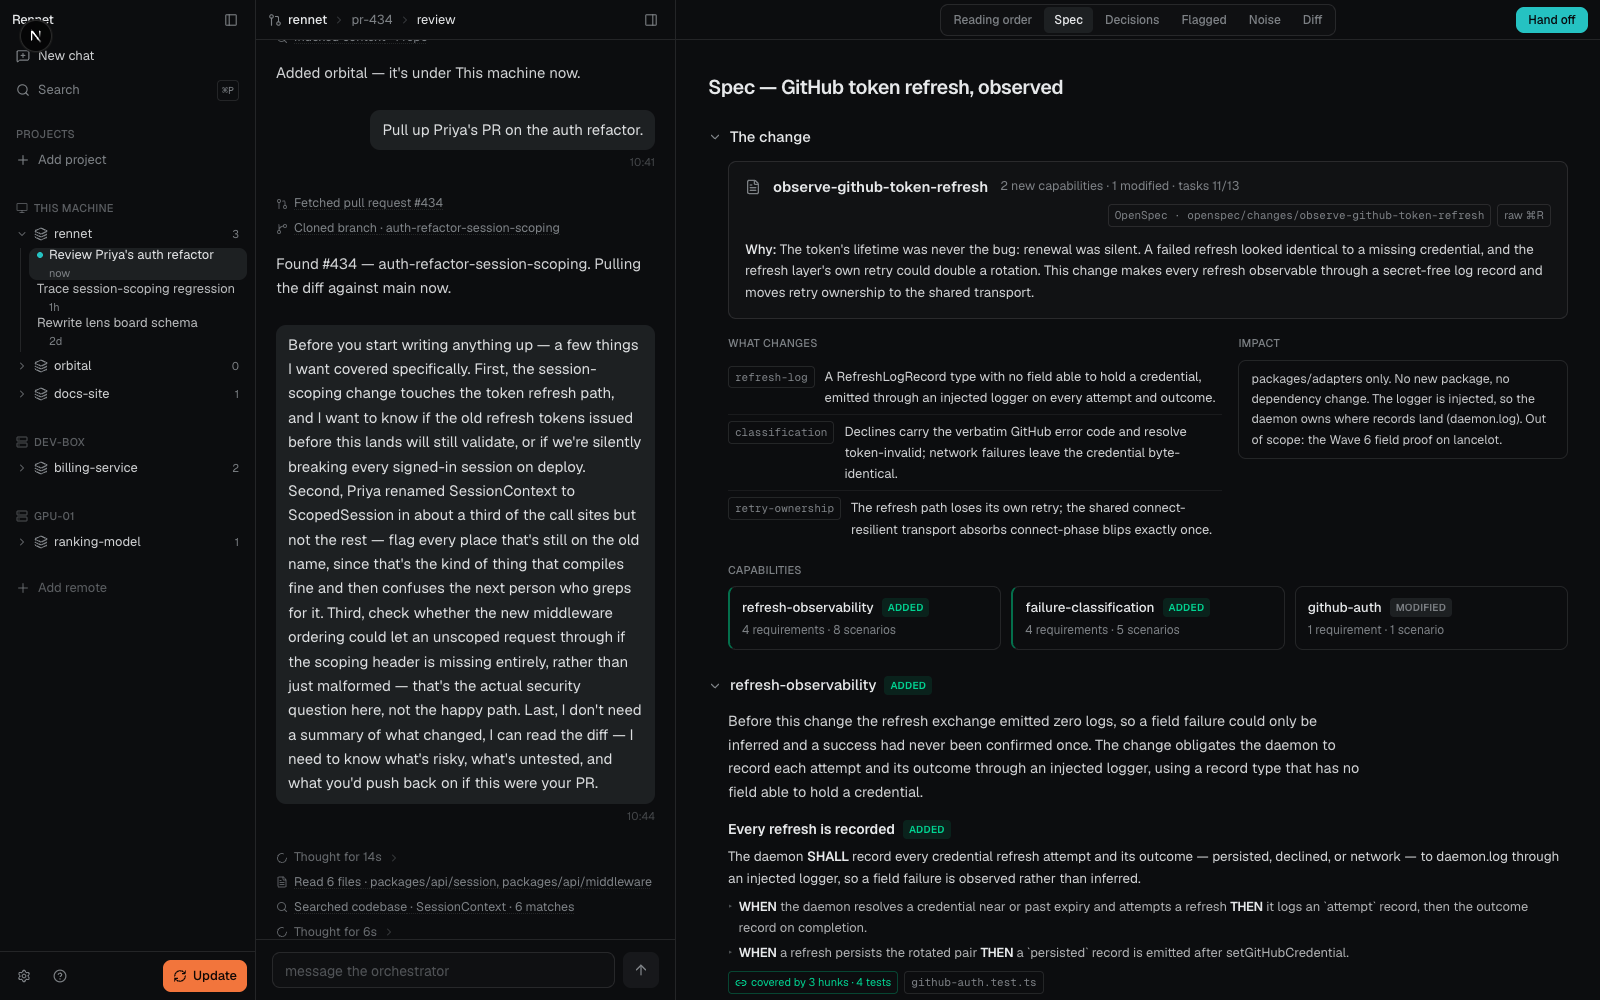
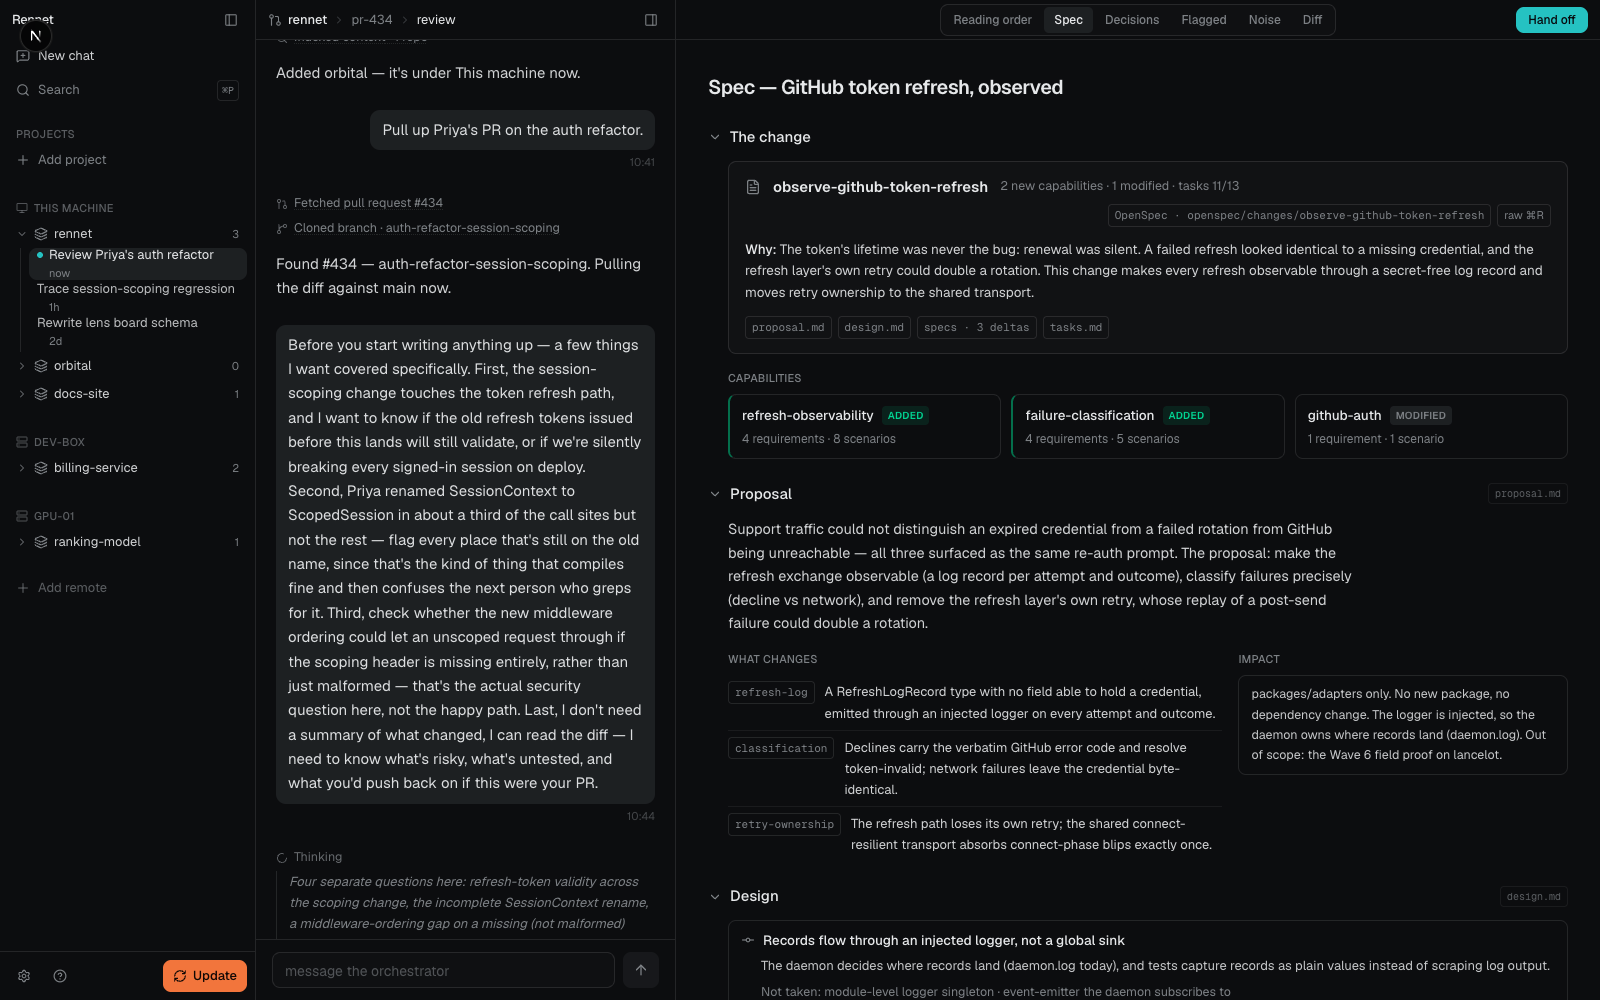
feat(spike): spec board renders the full OpenSpec artifact set (proposal, design, spec deltas, tasks)

diff --git a/spikes/board-prototype/lib/fixtures/spec.ts b/spikes/board-prototype/lib/fixtures/spec.ts
@@ -27,25 +27,12 @@ export const specBoard: LensBoard = {
           counts: { added: 2, modified: 1 },
           tasks: { done: 11, total: 13 },
           why: "The token's lifetime was never the bug: renewal was silent. A failed refresh looked identical to a missing credential, and the refresh layer's own retry could double a rotation. This change makes every refresh observable through a secret-free log record and moves retry ownership to the shared transport.",
-        },
-        {
-          kind: "what-changes",
-          rows: [
-            {
-              tag: "refresh-log",
-              text: "A RefreshLogRecord type with no field able to hold a credential, emitted through an injected logger on every attempt and outcome.",
-            },
-            {
-              tag: "classification",
-              text: "Declines carry the verbatim GitHub error code and resolve token-invalid; network failures leave the credential byte-identical.",
-            },
-            {
-              tag: "retry-ownership",
-              text: "The refresh path loses its own retry; the shared connect-resilient transport absorbs connect-phase blips exactly once.",
-            },
+          artifacts: [
+            { label: "proposal.md", sectionId: "proposal" },
+            { label: "design.md", sectionId: "design" },
+            { label: "specs · 3 deltas", sectionId: "observability" },
+            { label: "tasks.md", sectionId: "tasks" },
           ],
-          impact:
-            "packages/adapters only. No new package, no dependency change. The logger is injected, so the daemon owns where records land (daemon.log). Out of scope: the Wave 6 field proof on lancelot.",
         },
         {
           kind: "capability-grid",
@@ -76,9 +63,74 @@ export const specBoard: LensBoard = {
       ],
     },
     {
+      id: "proposal",
+      title: "Proposal",
+      source: "proposal.md",
+      gist: "Silent renewal made every auth failure ambiguous; observe each refresh, classify its failures, move retry out.",
+      elements: [
+        {
+          kind: "prose",
+          text: "Support traffic could not distinguish an expired credential from a failed rotation from GitHub being unreachable — all three surfaced as the same re-auth prompt. The proposal: make the refresh exchange observable (a log record per attempt and outcome), classify failures precisely (decline vs network), and remove the refresh layer's own retry, whose replay of a post-send failure could double a rotation.",
+        },
+        {
+          kind: "what-changes",
+          rows: [
+            {
+              tag: "refresh-log",
+              text: "A RefreshLogRecord type with no field able to hold a credential, emitted through an injected logger on every attempt and outcome.",
+            },
+            {
+              tag: "classification",
+              text: "Declines carry the verbatim GitHub error code and resolve token-invalid; network failures leave the credential byte-identical.",
+            },
+            {
+              tag: "retry-ownership",
+              text: "The refresh path loses its own retry; the shared connect-resilient transport absorbs connect-phase blips exactly once.",
+            },
+          ],
+          impact:
+            "packages/adapters only. No new package, no dependency change. The logger is injected, so the daemon owns where records land (daemon.log). Out of scope: the Wave 6 field proof on lancelot.",
+        },
+      ],
+    },
+    {
+      id: "design",
+      title: "Design",
+      source: "design.md",
+      gist: "Injected logger over a global sink; type-level secret-safety over redaction; the transport owns retry.",
+      counts: "3 decisions",
+      elements: [
+        {
+          kind: "decision",
+          statement: "Records flow through an injected logger, not a global sink",
+          why: "The daemon decides where records land (daemon.log today), and tests capture records as plain values instead of scraping log output.",
+          inferred: false,
+          alternatives: ["module-level logger singleton", "event-emitter the daemon subscribes to"],
+          evidence: [{ path: "packages/adapters/src/github-auth.ts", line: 431 }],
+        },
+        {
+          kind: "decision",
+          statement: "Secret-safety is a type-level property: the record has no field that can hold a token",
+          why: "A serialize-time redaction pass can miss a newly added field; a type with no secret-shaped field makes the leak unrepresentable, and the sentinel-token test proves it end to end.",
+          inferred: false,
+          alternatives: ["redaction allowlist at serialization", "log-scrubbing middleware"],
+          evidence: [{ path: "packages/adapters/src/github-auth.ts", line: 407 }],
+        },
+        {
+          kind: "decision",
+          statement: "Retry ownership moves to the shared connect-resilient transport",
+          why: "The transport can tell a connect-phase blip (safe to replay) from a post-send failure (replay could double a rotation); the refresh path cannot, so it calls the exchange exactly once.",
+          inferred: false,
+          alternatives: ["adapter-level retry with an idempotency key"],
+          evidence: [{ path: "packages/adapters/src/github-auth.test.ts", line: 288 }],
+        },
+      ],
+    },
+    {
       id: "observability",
       title: "refresh-observability",
       badge: "added",
+      source: "specs/refresh-observability/spec.md",
       gist: "Every refresh attempt lands one secret-free line in daemon.log, by construction.",
       counts: "4 requirements · 3 covered · 1 partial",
       elements: [
@@ -160,6 +212,7 @@ export function tokenKind(token: string): string {
       id: "classification-retry",
       title: "failure-classification",
       badge: "added",
+      source: "specs/failure-classification/spec.md",
       gist: "Decline names its cause; network preserves the credential; the refresh layer adds no retry.",
       counts: "4 requirements · 3 covered · 1 partial",
       elements: [
@@ -238,6 +291,7 @@ expect(refresh).toHaveBeenCalledTimes(1);`,
       id: "field-proof",
       title: "github-auth · field proof (lancelot)",
       badge: "modified",
+      source: "specs/github-auth/spec.md",
       gist: "Observe a refresh succeed-and-rotate live — deferred to a manual run against the real account.",
       counts: "1 requirement · 0 covered · 1 open",
       elements: [
@@ -262,11 +316,11 @@ expect(refresh).toHaveBeenCalledTimes(1);`,
     {
       id: "tasks",
       title: "Tasks",
+      source: "tasks.md",
       gist: "11 of 13 done — the two open tasks are the lancelot field proof.",
       elements: [
         {
           kind: "task-progress",
-          source: "openspec/changes/observe-github-token-refresh/tasks.md",
           groups: [
             { label: "1 · The secret-free record type", done: 3, total: 3 },
             { label: "2 · Wire the injected logger", done: 3, total: 3 },

diff --git a/spikes/board-prototype/components/lens-board.tsx b/spikes/board-prototype/components/lens-board.tsx
@@ -66,6 +66,11 @@ function Section({ section, initiallyFolded }: { section: BoardSection; initiall
             {section.counts ? <span className="text-muted-foreground/60"> · {section.counts}</span> : null}
           </span>
         )}
+        {section.source && (
+          <span className="ml-auto shrink-0 rounded border border-border/60 px-1.5 py-0.5 font-mono text-[10px] text-muted-foreground/70">
+            {section.source}
+          </span>
+        )}
       </button>
       {!folded && (
         <div className="flex flex-col gap-4 pl-5">
@@ -134,6 +139,19 @@ function Element({ element }: { element: BoardElement }) {
             <span className="font-medium text-foreground">Why: </span>
             {element.why}
           </p>
+          {element.artifacts && element.artifacts.length > 0 && (
+            <div className="flex flex-wrap items-center gap-1.5">
+              {element.artifacts.map((artifact) => (
+                <a
+                  key={artifact.sectionId}
+                  href={`#${artifact.sectionId}`}
+                  className="rounded border border-border px-1.5 py-0.5 font-mono text-[11px] text-muted-foreground transition-colors hover:bg-secondary hover:text-foreground"
+                >
+                  {artifact.label}
+                </a>
+              ))}
+            </div>
+          )}
         </header>
       )
 
@@ -200,9 +218,11 @@ function Element({ element }: { element: BoardElement }) {
           <SmallLabel>
             Tasks · {element.groups.reduce((sum, group) => sum + group.done, 0)}/
             {element.groups.reduce((sum, group) => sum + group.total, 0)}
-            <span className="ml-2 font-mono text-[10px] normal-case tracking-normal text-muted-foreground/70">
-              {element.source}
-            </span>
+            {element.source && (
+              <span className="ml-2 font-mono text-[10px] normal-case tracking-normal text-muted-foreground/70">
+                {element.source}
+              </span>
+            )}
           </SmallLabel>
           <div className="flex flex-col divide-y divide-border/60 rounded-md border border-border px-3">
             {element.groups.map((group, index) => (

diff --git a/spikes/board-prototype/lib/lens-data.ts b/spikes/board-prototype/lib/lens-data.ts
@@ -26,6 +26,8 @@ export type BoardElement =
       tasks?: { done: number; total: number }
       /** The distilled why — one paragraph, not the raw proposal. */
       why: string
+      /** The artifact set the discovery found (proposal/design/spec deltas/tasks), each jumping to its section. */
+      artifacts?: { label: string; sectionId: string }[]
     }
   | {
       kind: "what-changes"
@@ -46,7 +48,7 @@ export type BoardElement =
     }
   | {
       kind: "task-progress"
-      source: string
+      source?: string
       groups: { label: string; done: number; total: number }[]
     }
   | {
@@ -109,6 +111,8 @@ export interface BoardSection {
   title: string
   /** Delta badge beside the title (capability sections on the spec board). */
   badge?: "added" | "modified"
+  /** The artifact file this section renders (spec-board provenance chip). */
+  source?: string
   /** One-line rollup shown when the section is folded. */
   gist: string
   /** Small counts shown beside the gist when folded, e.g. "3 blocks · 1 finding". */
